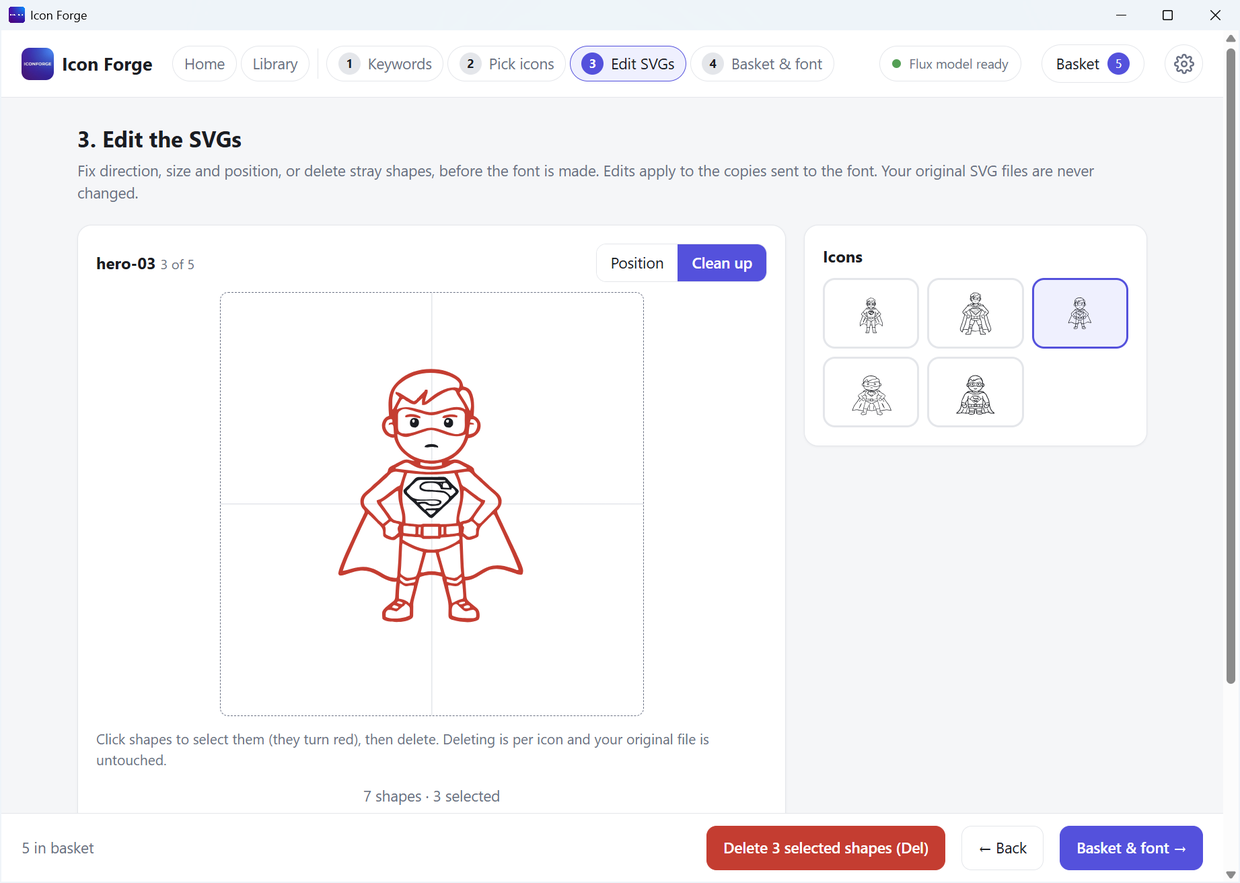
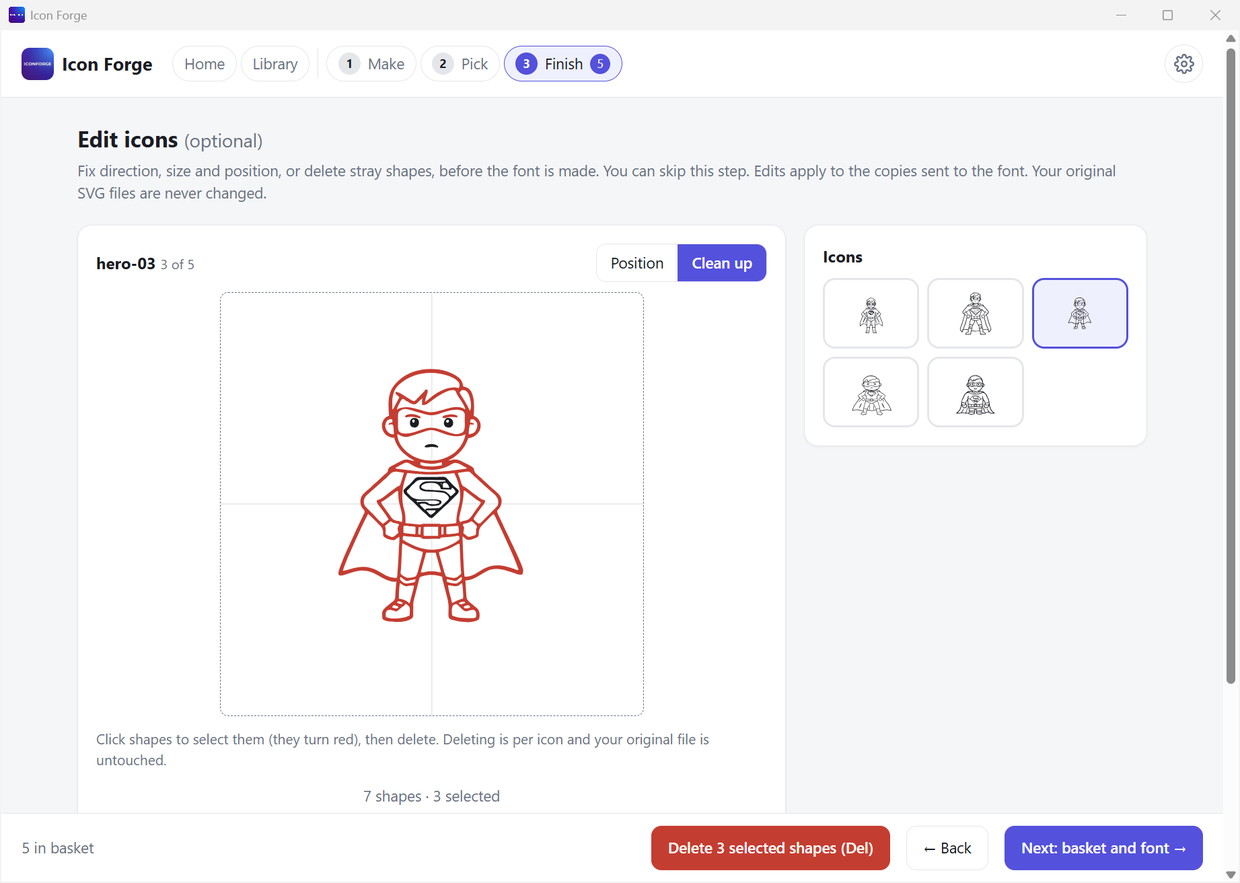
1.1.10: search in Copy to / Move to; wiki screenshots retaken from the real window
- Version 1.1.10 (the Search sets box was not in the 1.1.9 installer)
- All wiki screenshots retaken for the three-step layout, plus two new ones (Move to with search, Preview: change one icon)
- Removed the unused first-start theme picture

diff --git a/wiki/Library.md b/wiki/Library.md
@@ -97,6 +97,8 @@ If the name is already used, Icon Forge tells you and keeps the box open so you 
 3. Choose the set they should go to. Or choose **A new set** and type a name. If you have many sets, type in the **Search sets** box at the top of the list to find one. A set you already ticked stays ticked, even if the search hides it.
 4. Press the button. A message tells you what happened.
 
+![Move icons to another set, with the search box](images/24-move-to-search.png)
+
 You can also **right-click** one icon and choose **Copy to another set…** or **Move to another set…**.
 
 Good to know:

diff --git a/wiki/Step-4-Basket-and-Font.md b/wiki/Step-4-Basket-and-Font.md
@@ -51,6 +51,8 @@ See your icons the way they will look. Change the background to check they work 
 
 **Tap an icon** in the preview. A box opens on the right. It changes only that icon. The others stay as they are. These are the same edits as in [Edit icons](Step-3-Edit-SVGs.md), so they go into the font and the zip.
 
+![Changing one icon in the Preview](images/25-preview-adjust.png)
+
 | Control | What it does |
 |---|---|
 | **Drag the icon** in the box | Puts it where you want it. The **cross** marks the middle, and the icon snaps to it. |
